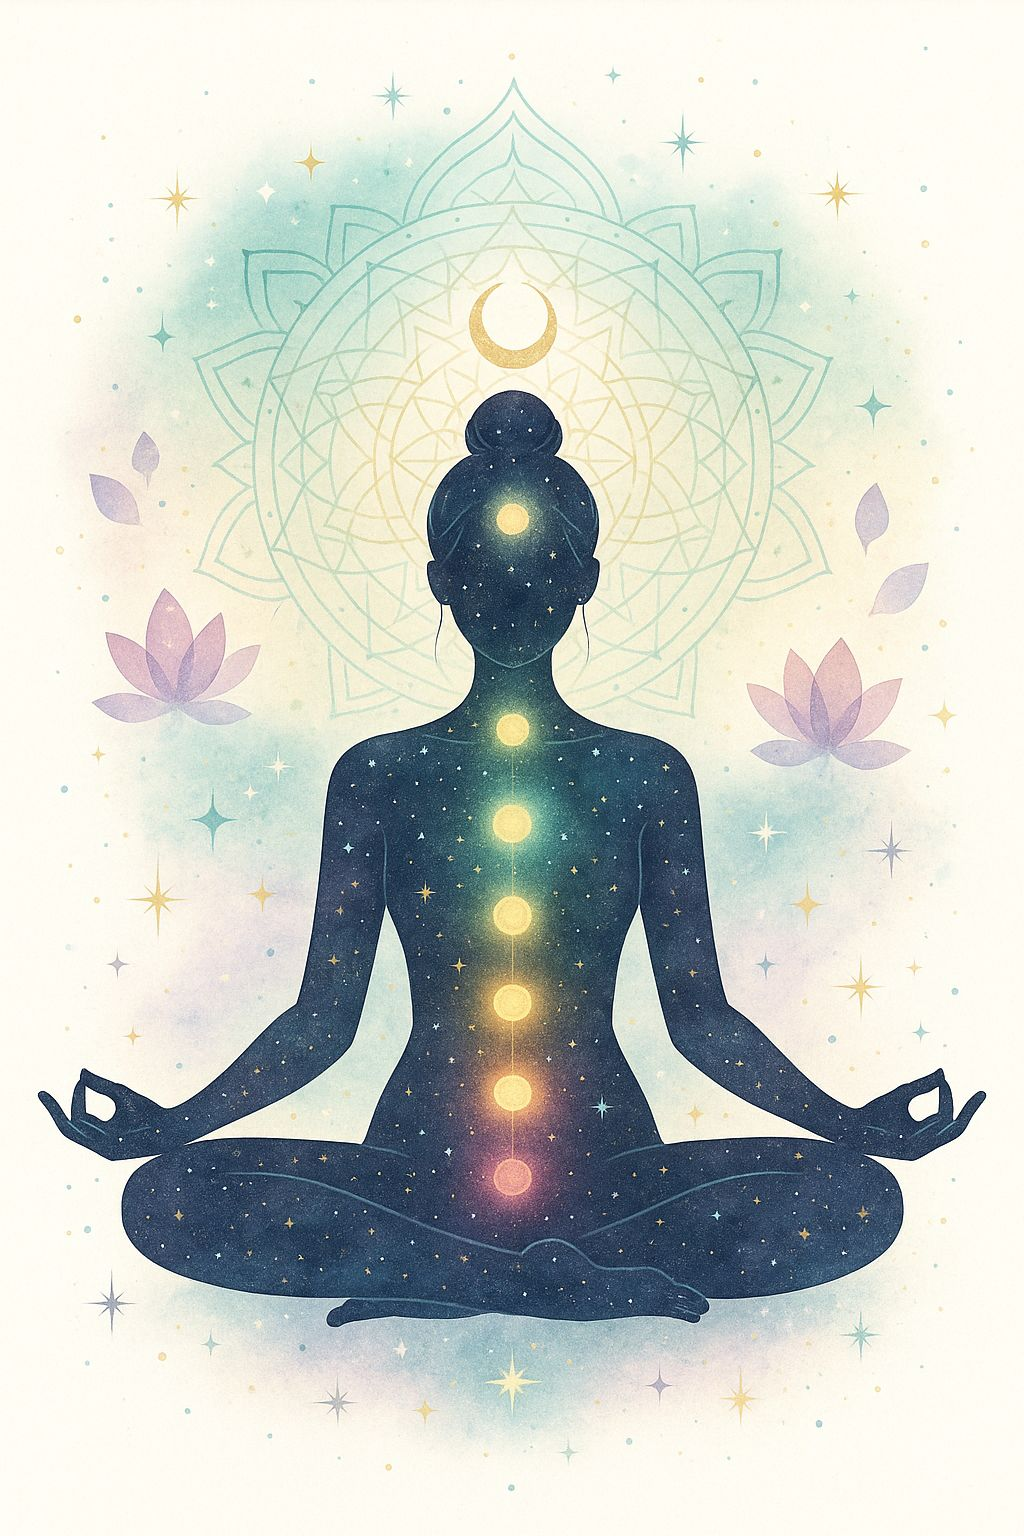
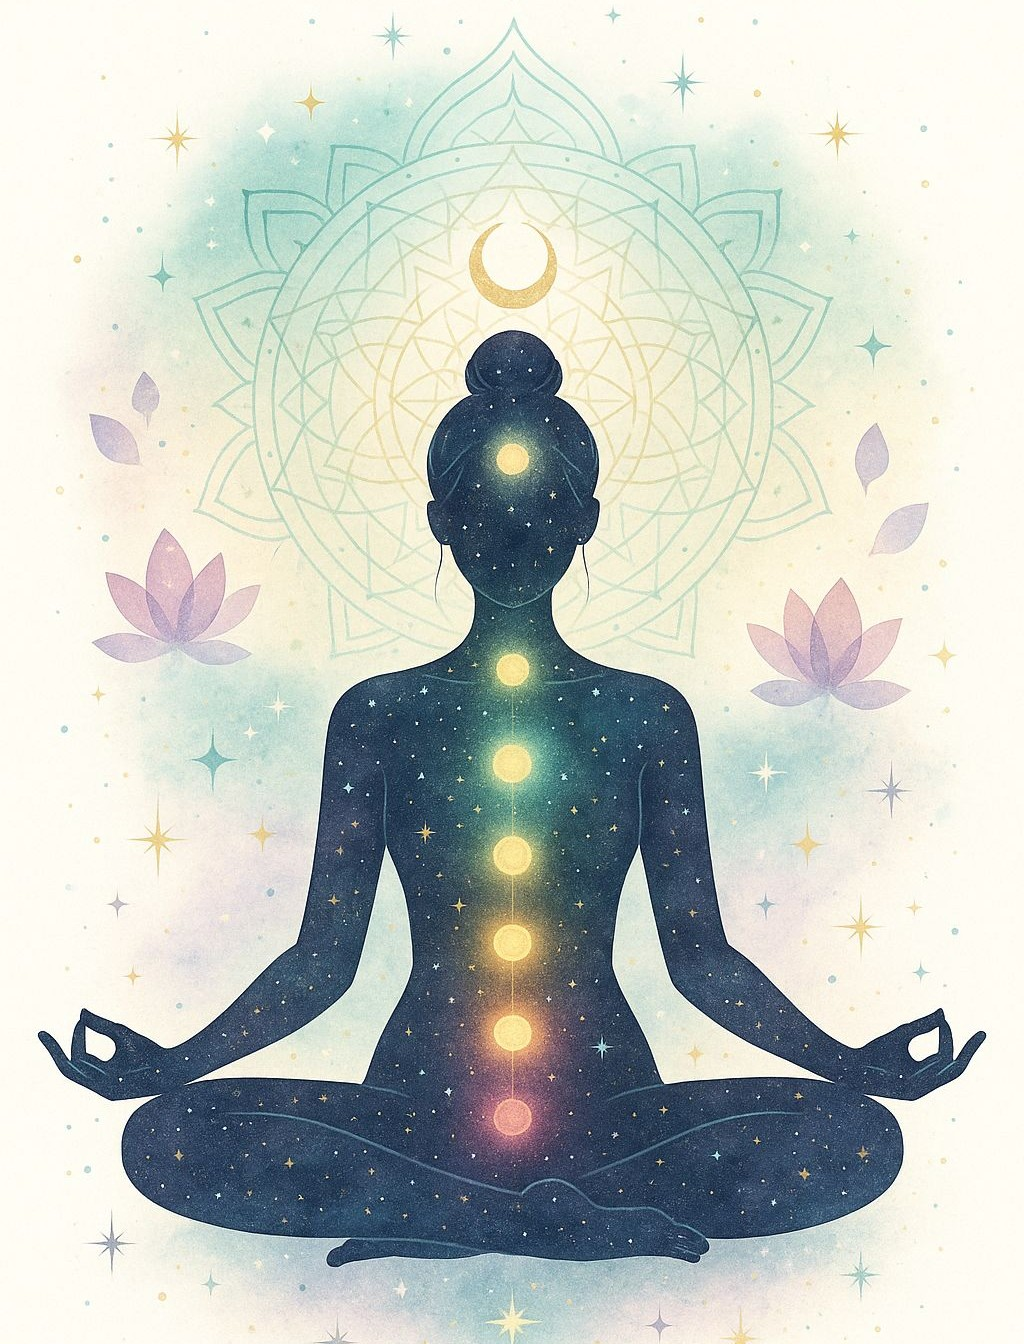
improved hero page

diff --git a/css/style.css b/css/style.css
@@ -22,13 +22,12 @@ h3 {
    NAVBAR
 =========================== */
 
-.navbar {
-    display: flex;
-    justify-content: space-between;
-    align-items: center;
+.navbar { display: flex;
+     justify-content: space-between; 
+     align-items: center; 
+     padding: 10px 80px 10px 40px;
+ }
 
-    padding: 15px 80px;
-}
 /* ===========================
    NAVIGATION LINKS
 =========================== */
@@ -79,36 +78,54 @@ h3 {
    HERO
 =========================== */
 
+.hero {
+    min-height: 100vh;
+
+    background-image: url("../images/background.png");
+    background-repeat: no-repeat;
+    background-position: right center;
+    background-size: contain;
+
+    background-color: #FAF8F2;
+}
+
 .hero-content {
+    width: 50%;
+    
+    padding:  80px;
     display: flex;
     align-items: center;
-    justify-content: space-between;
 
-    padding: 0 80px 20px;
-
-    gap: 60px;
+    min-height: calc(100vh - 90px);
 }
-.hero-text{
 
-    flex:1;
-
+.hero-text {
+    flex: 1;
 }
-.hero-image{
 
-    flex:1;
-
+.hero-image {
+    flex: 1;
+    display: flex;
+    justify-content: center;
 }
-.hero-image img{
 
-    width:100%;
-
-    border-radius:12px;
-
+.hero-image img {
+    width: 80%;          /* was 100% */
+    max-width: 480px;    /* prevents it from becoming huge */
+    height: auto;
+    border-radius: 12px;
 }
+
 .hero-text h1 {
-    font-size: 5rem;
-    line-height: 1.1;
-    margin: 0;
+    font-size: 4.2rem;   /* was 5rem */
+    line-height: 1.05;
+    margin: 10px 0 20px;
+}
+
+.description {
+    font-size: 1.05rem;
+    line-height: 1.7;
+    max-width: 500px;
 }
 
 .subtitle {
@@ -129,4 +146,11 @@ h3 {
     color: #7A6B5D;
     letter-spacing: 2px;
     text-transform: uppercase;
+}
+.hero-text h1 {
+    margin-top: 0;
+}
+
+.hero-text p {
+    margin-top: 0;
 }

diff --git a/index.html b/index.html
@@ -64,12 +64,6 @@
 
         </div>
 
-        <div class="hero-image">
-
-            <img src="images/hero.jpg" alt="Yoga Meditation">
-
-        </div>
-
     </div>
 
 </header>